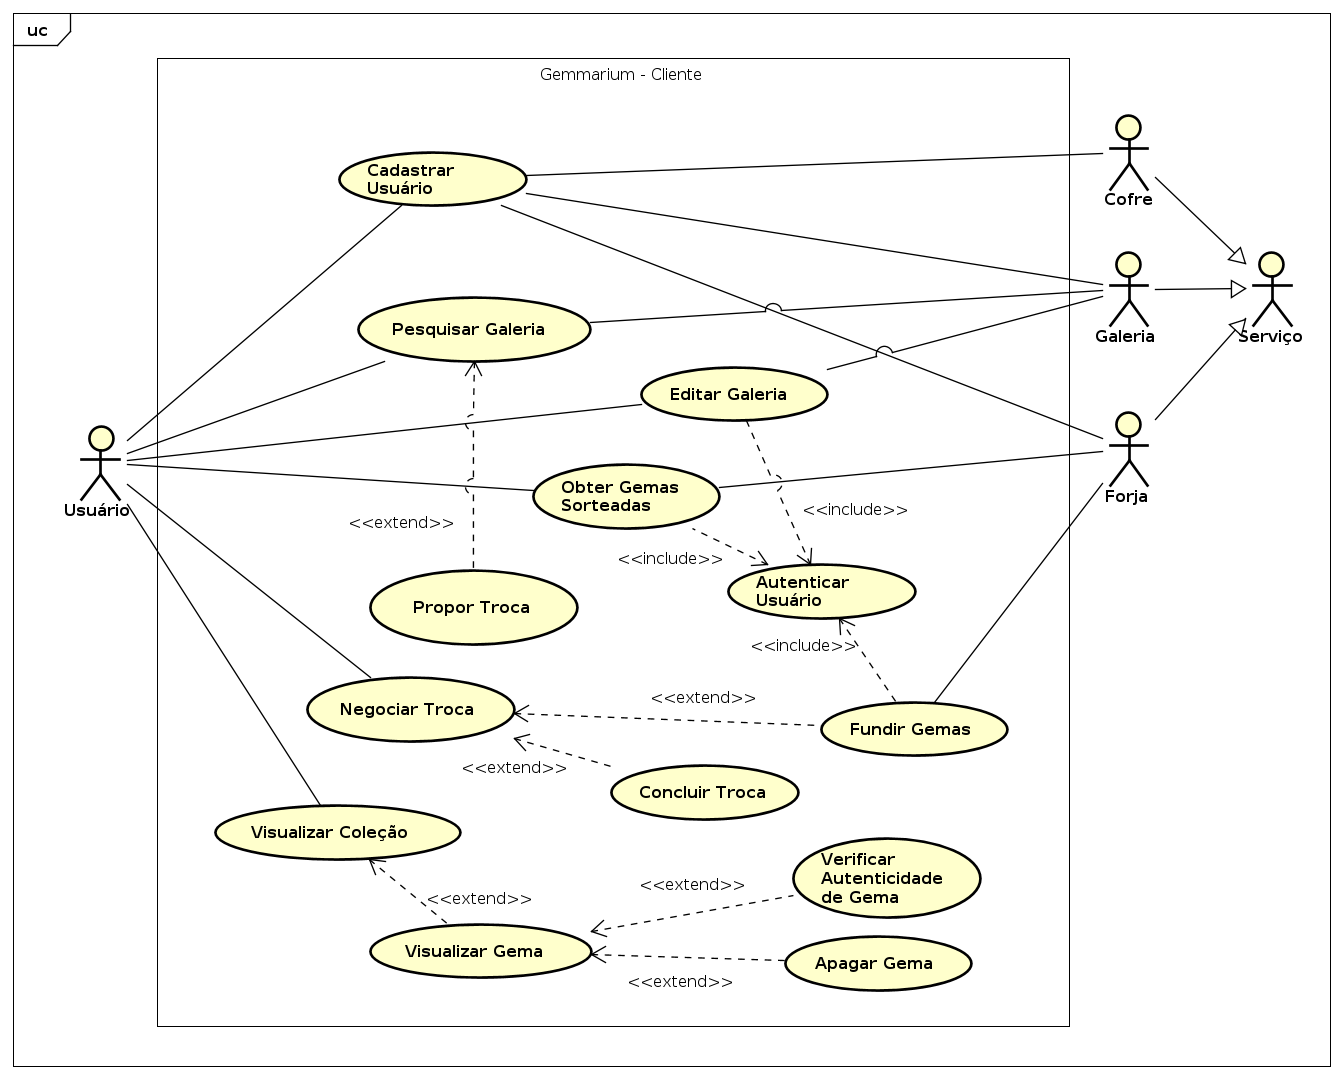
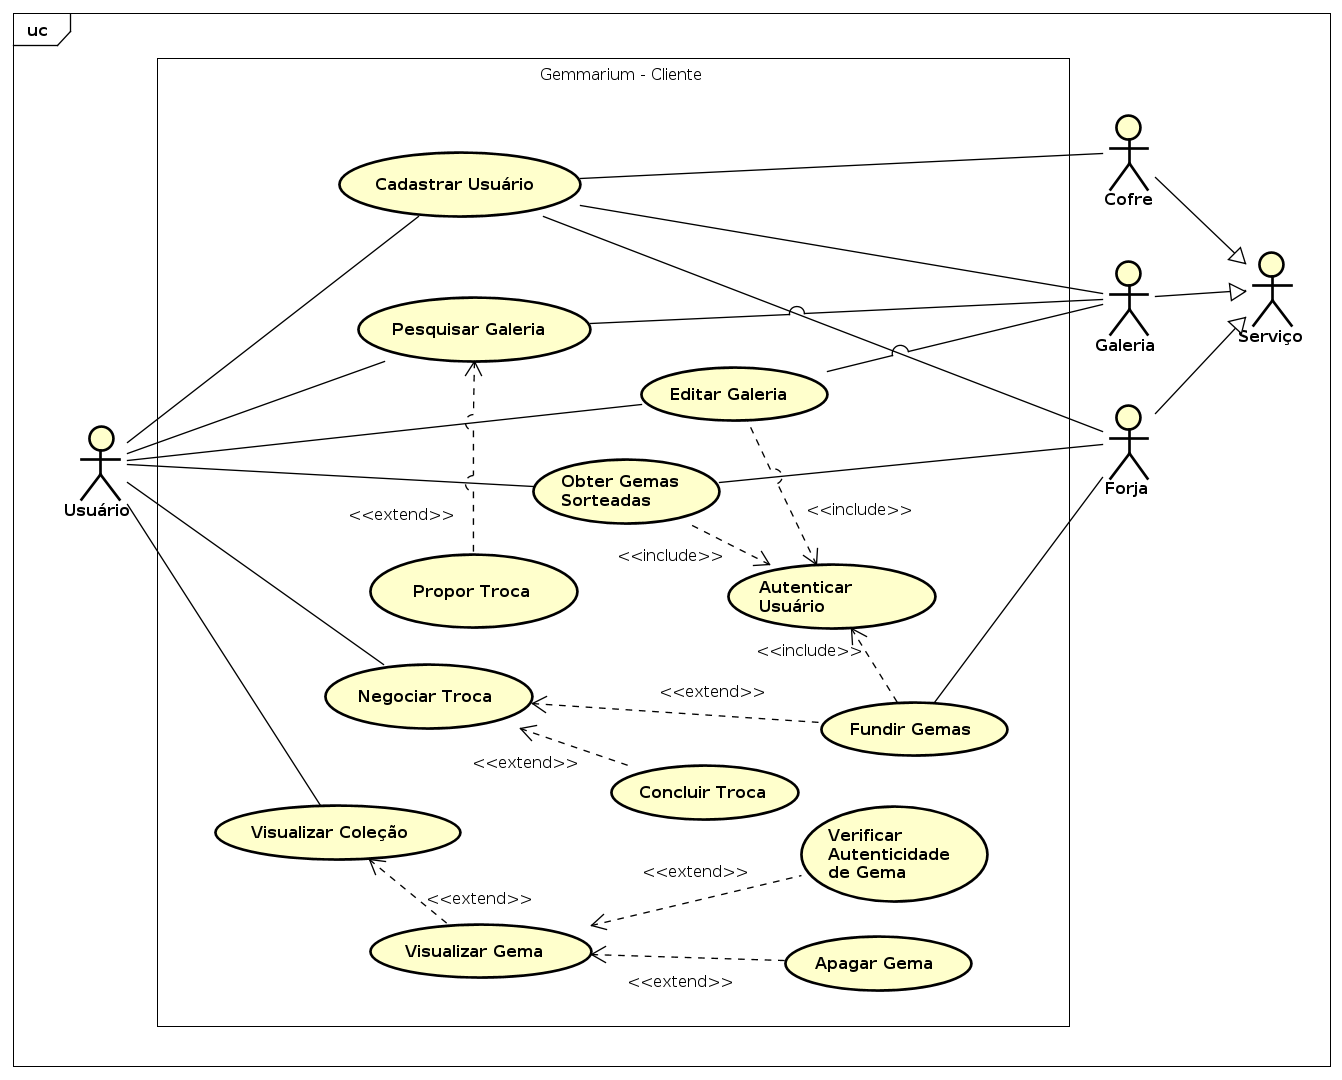
Diagrama CSU melhorado

diff --git a/README.md b/README.md
@@ -10,4 +10,7 @@ Para executar o lado cliente, certificar que o `python` e o `pip` estão instala
 
 Acesse a pasta `client` e instale as dependências:
 
-    $ cd client && python -m virtualenv .venv && source .venv/bin/activate && pip install -r requirements.txt
+    $ cd client && \
+      python -m virtualenv .venv && \
+      source .venv/bin/activate && \
+      pip install -r requirements.txt
